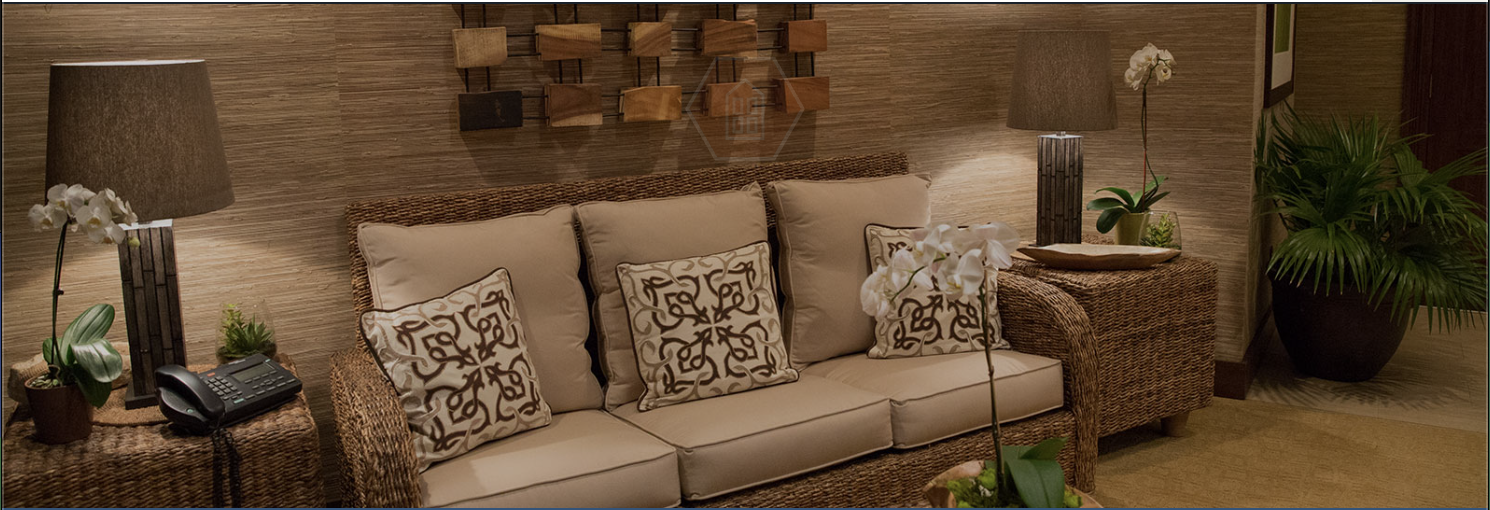
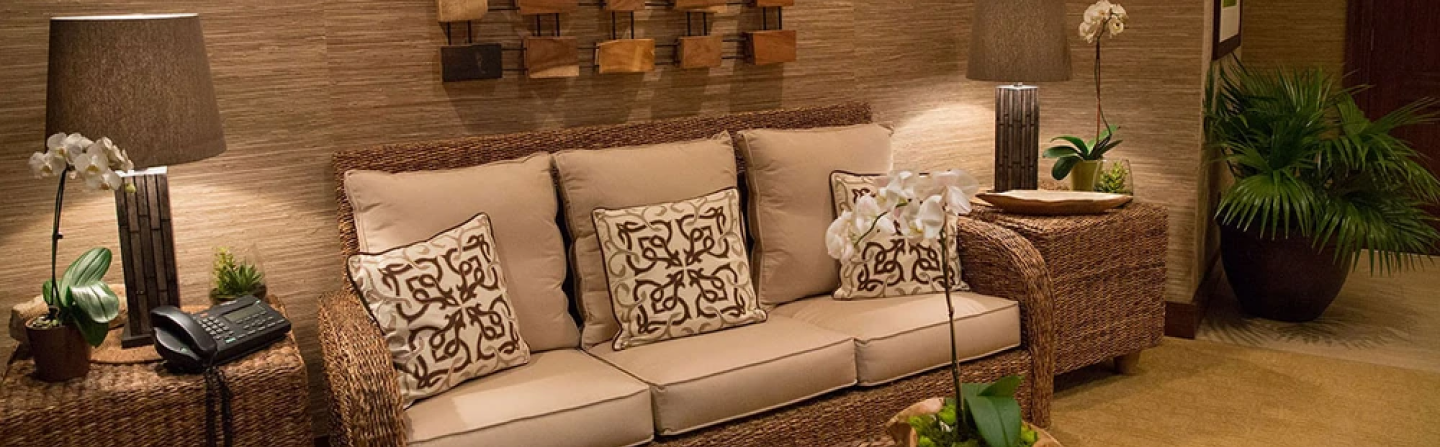
Reservations go brrrrrrrrrrrr

diff --git a/Accommodations/accommodationsReservations.css b/Accommodations/accommodationsReservations.css
@@ -1,0 +1,95 @@
+body {
+    display: flex;
+    flex-direction: column;
+    margin: 0px;
+}
+
+section {
+    color: black;
+    padding: 10px;
+    display: flex;
+}
+
+/* This part of the code is for the MAIN NAV BAR. */
+
+img.jurassicParkLogo {
+    height: 132px;
+    width: 124px;
+}
+
+nav.mainNavBar {
+    display: flex;
+    background-color: #D7D3C6;
+    padding: 10px;
+    justify-content: space-around;
+    border-bottom: 4px solid black;
+}
+
+.mainNavBar a {
+    align-self: center;
+}
+
+
+a.mainNavButton {
+    padding: 10px;
+    color: black;
+    font-style: normal;
+    text-decoration: underline;
+    font-weight: bold;
+    font-size: larger;
+}
+
+a.specialNavButton1 {
+    font-weight: bolder;
+    font-size: larger;
+    border: 3px solid black;
+    padding: 10px;
+    font-style: normal;
+    text-decoration: none;
+    color: black;
+    border-radius: 10px;
+}
+
+a.specialNavButton2 {
+    padding: 10px;
+    padding-left: 15px;
+    padding-right: 15px;
+    background-color: #2D3648;
+    color: #FFFFFF;
+    font-weight: bolder;
+    font-size: larger;
+    text-decoration: none;
+    border: 3px solid #2D3648;
+    border-radius: 10px;
+}
+
+/* This part of the code is for OUR NAV BAR (aka the one for accommodations) */
+
+nav.subNavBar {
+    display: flex;
+    justify-content: space-around;
+    background-color: #B2A696;
+}
+
+.subNavBar a {
+    padding: 10px;
+    color: black;
+    font-style: normal;
+    text-decoration: underline;
+    font-weight: bold;
+    font-size: larger;
+}
+
+section.banner {
+    display: flex;
+    flex-direction: column;
+    align-items: center;
+    background-image: url('accommodationsImages/accommodationsImagesReservations/accommodationsReservationsBanner.png');
+    background-repeat: no-repeat;
+    background-size: cover;
+    height: 600px;
+}
+
+.banner h1 {
+    font-size: 70px;
+}

diff --git a/Accommodations/accommodationsReservations.html b/Accommodations/accommodationsReservations.html
@@ -1,0 +1,59 @@
+<!DOCTYPE html>
+<html lang="en">
+
+<head>
+    <meta charset="UTF-8">
+    <meta http-equiv="X-UA-Compatible" content="IE=edge">
+    <meta name="viewport" content="width=device-width, initial-scale=1.0">
+    <link rel="stylesheet" href="/Accommodations/accommodationsReservations.css">
+    <title>Reservations</title>
+</head>
+
+<body>
+
+    <nav class="mainNavBar">
+
+        <img src="/Accommodations/accommodationsImages/accommodationsJurassicParkLogo.png" alt="Jurassic Park Logo"
+            class="jurassicParkLogo">
+
+        <a href="/index.html" class="mainNavButton">Home</a>
+        <a class="mainNavButton">Experience</a>
+        <a class="mainNavButton">Dining</a>
+        <a class="mainNavButton">Shopping</a>
+        <a class="mainNavButton">About Us</a>
+        <a class="specialNavButton1">JurassicPAY</a>
+        <a class="specialNavButton2">Tickets</a>
+
+    </nav>
+
+    <nav class="subNavBar">
+
+        <a href="/Accommodations/acomodationStandard.html">Standard Bungalow Hotel Package</a>
+        <a href="/Accommodations/accommodationsDeluxe.html">Deluxe Bungalow Hotel Package</a>
+        <a href="/Accommodations/accommodationsLuxuryLodge.html">Luxury Safari Lodge Hotel Package</a>
+        <a href="/Accommodations/accommodationsCamp.html">Camp Jurassic</a>
+        <a>Your Reservations</a>
+
+    </nav>
+
+    <section class="banner">
+
+        <h1>Get ready to have a Jurassic stay.</h1>
+
+        <section class="inputs">
+
+            <input type="date" class="checkIn">
+
+            <input type="date" class="checkOut">
+
+            <input type="number" max="8" min="0" class="adult" placeholder="0">
+
+            <input type="number" max="8" min="0" class="child" placeholder="0">
+
+        </section>
+
+    </section>
+
+</body>
+
+</html>

diff --git a/Accommodations/accommodationsStandard.css b/Accommodations/accommodationsStandard.css
@@ -192,3 +192,7 @@ img.rateing {
     margin-left: 40px;
     margin-right: 40px;
 }
+
+@media only screen and (max-width:1139px){
+     
+}
